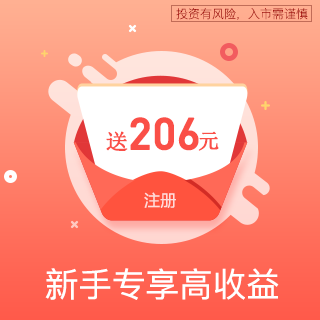
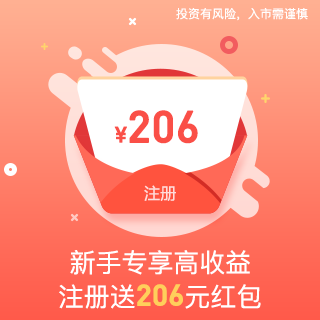
临时文件

diff --git a/files/index/data.js b/files/index/data.js
@@ -1,7 +1,7 @@
 $axure.loadCurrentPage(
 (function() {
     var _ = function() { var r={},a=arguments; for(var i=0; i<a.length; i+=2) r[a[i]]=a[i+1]; return r; }
-    var _creator = function() { return _(b,c,d,e,f,g,h,g,i,[j],k,_(l,m,n,o,p,q,r,_(),s,_(t,u,v,w,x,_(y,z,A,B),C,null,D,w,E,w,F,G,H,null,I,J,K,L,M,N,O,J),P,_(),Q,_(),R,_(S,[_(T,U,V,W,X,Y,n,Z,ba,Z,bb,bc,s,_(bd,_(be,bf,bg,bh),t,bi,bj,_(bk,bl,bm,bn),bo,bp),P,_(),bq,_(),S,[_(T,br,V,W,X,null,bs,bc,n,bt,ba,bu,bb,bc,s,_(bd,_(be,bf,bg,bh),t,bi,bj,_(bk,bl,bm,bn),bo,bp),P,_(),bq,_())],bv,g),_(T,bw,V,W,X,bx,n,Z,ba,Z,bb,bc,s,_(bd,_(be,by,bg,bz),t,bA,bj,_(bk,bB,bm,bC)),P,_(),bq,_(),S,[_(T,bD,V,W,X,null,bs,bc,n,bt,ba,bu,bb,bc,s,_(bd,_(be,by,bg,bz),t,bA,bj,_(bk,bB,bm,bC)),P,_(),bq,_())],bE,_(bF,bG),bv,g),_(T,bH,V,W,X,Y,n,Z,ba,Z,bb,bc,s,_(bI,bJ,bd,_(be,bK,bg,bL),t,bM,bj,_(bk,bN,bm,bO)),P,_(),bq,_(),S,[_(T,bP,V,W,X,null,bs,bc,n,bt,ba,bu,bb,bc,s,_(bI,bJ,bd,_(be,bK,bg,bL),t,bM,bj,_(bk,bN,bm,bO)),P,_(),bq,_())],bv,g),_(T,bQ,V,W,X,Y,n,Z,ba,Z,bb,bc,s,_(bI,bJ,bd,_(be,bR,bg,bS),t,bT,bj,_(bk,bU,bm,bV)),P,_(),bq,_(),S,[_(T,bW,V,W,X,null,bs,bc,n,bt,ba,bu,bb,bc,s,_(bI,bJ,bd,_(be,bR,bg,bS),t,bT,bj,_(bk,bU,bm,bV)),P,_(),bq,_())],bv,g),_(T,bX,V,W,X,Y,n,Z,ba,Z,bb,bc,s,_(bI,bJ,bd,_(be,bY,bg,bZ),t,ca,bj,_(bk,cb,bm,cc)),P,_(),bq,_(),S,[_(T,cd,V,W,X,null,bs,bc,n,bt,ba,bu,bb,bc,s,_(bI,bJ,bd,_(be,bY,bg,bZ),t,ca,bj,_(bk,cb,bm,cc)),P,_(),bq,_())],bv,g),_(T,ce,V,W,X,cf,n,cg,ba,cg,bb,bc,s,_(t,ch,bd,_(be,ci,bg,ci),bj,_(bk,cj,bm,ck)),P,_(),bq,_(),S,[_(T,cl,V,W,X,null,bs,bc,n,bt,ba,bu,bb,bc,s,_(t,ch,bd,_(be,ci,bg,ci),bj,_(bk,cj,bm,ck)),P,_(),bq,_())],bE,_(bF,cm)),_(T,cn,V,W,X,cf,n,cg,ba,cg,bb,bc,s,_(t,ch,bd,_(be,ci,bg,ci),bj,_(bk,ci,bm,ck)),P,_(),bq,_(),S,[_(T,co,V,W,X,null,bs,bc,n,bt,ba,bu,bb,bc,s,_(t,ch,bd,_(be,ci,bg,ci),bj,_(bk,ci,bm,ck)),P,_(),bq,_())],bE,_(bF,cp)),_(T,cq,V,W,X,cf,n,cg,ba,cg,bb,bc,s,_(t,ch,bd,_(be,ci,bg,ci)),P,_(),bq,_(),S,[_(T,cr,V,W,X,null,bs,bc,n,bt,ba,bu,bb,bc,s,_(t,ch,bd,_(be,ci,bg,ci)),P,_(),bq,_())],bE,_(bF,cs))])),ct,_(),cu,_(cv,_(cw,cx),cy,_(cw,cz),cA,_(cw,cB),cC,_(cw,cD),cE,_(cw,cF),cG,_(cw,cH),cI,_(cw,cJ),cK,_(cw,cL),cM,_(cw,cN),cO,_(cw,cP),cQ,_(cw,cR),cS,_(cw,cT),cU,_(cw,cV),cW,_(cw,cX),cY,_(cw,cZ),da,_(cw,db)));}; 
-var b="url",c="index.html",d="generationDate",e=new Date(1525924745442.2),f="isCanvasEnabled",g=false,h="isAdaptiveEnabled",i="variables",j="OnLoadVariable",k="page",l="packageId",m="deb67c369b2341ee82ba4cf0ecd7fbb5",n="type",o="Axure:Page",p="name",q="index",r="notes",s="style",t="baseStyle",u="627587b6038d43cca051c114ac41ad32",v="pageAlignment",w="near",x="fill",y="fillType",z="solid",A="color",B=0xFFFFFFFF,C="image",D="imageHorizontalAlignment",E="imageVerticalAlignment",F="imageRepeat",G="auto",H="favicon",I="sketchFactor",J="0",K="colorStyle",L="appliedColor",M="fontName",N="Applied Font",O="borderWidth",P="adaptiveStyles",Q="interactionMap",R="diagram",S="objects",T="id",U="0b8754adeb4a4aaa83d6da3865ff0277",V="label",W="",X="friendlyType",Y="矩形",Z="vectorShape",ba="styleType",bb="visible",bc=true,bd="size",be="width",bf=620,bg="height",bh=230,bi="4b7bfc596114427989e10bb0b557d0ce",bj="location",bk="x",bl=4,bm="y",bn=117,bo="cornerRadius",bp="5",bq="imageOverrides",br="b1bedeb228bb41cc8f175700a86edae0",bs="isContained",bt="richTextPanel",bu="paragraph",bv="generateCompound",bw="a676048dda1d4d1f9574b7d8e251f3ed",bx="占位符",by=110,bz=36,bA="c50e74f669b24b37bd9c18da7326bccd",bB=14,bC=124,bD="8a3af233c432469ca5945ee232ef5e78",bE="images",bF="normal~",bG="images/index/u2.png",bH="7c35a8ef5cb344e9a570aed8e888564c",bI="fontWeight",bJ="700",bK=129,bL=37,bM="1111111151944dfba49f67fd55eb1f88",bN=150,bO=193,bP="142bfecdf82f4384af4e9f593e33b977",bQ="6b2e15ea56e942aab7c5783709a76645",bR=75,bS=22,bT="8c7a4c5ad69a4369a5f7788171ac0b32",bU=80,bV=280,bW="863a483d3abe418e99663950b996a04b",bX="eef110388c9d4ab3bebf94dac1e95fd5",bY=97,bZ=29,ca="b3a15c9ddde04520be40f94c8168891e",cb=323,cc=197,cd="6f0e768e4a2841b1b0b01a6ce3e5f745",ce="0630e2e8648b4356a66f600ac58282b7",cf="图片",cg="imageBox",ch="75a91ee5b9d042cfa01b8d565fe289c0",ci=107,cj=213,ck=0,cl="c4ad9f79a119493cbdceccbd2753380f",cm="images/index/u10.png",cn="80545591825c4da5a630c237f8805fc6",co="3dc771c1add442399ada14b15b3afb82",cp="images/index/u12.png",cq="1c0ea4004a384059a5f27720e7180bc3",cr="e78822b146884d10a7222a22e2df685f",cs="images/index/u14.png",ct="masters",cu="objectPaths",cv="0b8754adeb4a4aaa83d6da3865ff0277",cw="scriptId",cx="u0",cy="b1bedeb228bb41cc8f175700a86edae0",cz="u1",cA="a676048dda1d4d1f9574b7d8e251f3ed",cB="u2",cC="8a3af233c432469ca5945ee232ef5e78",cD="u3",cE="7c35a8ef5cb344e9a570aed8e888564c",cF="u4",cG="142bfecdf82f4384af4e9f593e33b977",cH="u5",cI="6b2e15ea56e942aab7c5783709a76645",cJ="u6",cK="863a483d3abe418e99663950b996a04b",cL="u7",cM="eef110388c9d4ab3bebf94dac1e95fd5",cN="u8",cO="6f0e768e4a2841b1b0b01a6ce3e5f745",cP="u9",cQ="0630e2e8648b4356a66f600ac58282b7",cR="u10",cS="c4ad9f79a119493cbdceccbd2753380f",cT="u11",cU="80545591825c4da5a630c237f8805fc6",cV="u12",cW="3dc771c1add442399ada14b15b3afb82",cX="u13",cY="1c0ea4004a384059a5f27720e7180bc3",cZ="u14",da="e78822b146884d10a7222a22e2df685f",db="u15";
+    var _creator = function() { return _(b,c,d,e,f,g,h,g,i,[j],k,_(l,m,n,o,p,q,r,_(),s,_(t,u,v,w,x,_(y,z,A,B),C,null,D,w,E,w,F,G,H,null,I,J,K,L,M,N,O,J),P,_(),Q,_(),R,_(S,[_(T,U,V,W,X,Y,n,Z,ba,Z,bb,bc,s,_(t,bd,be,_(bf,bg,bh,bg),bi,_(bj,bk,bl,bm)),P,_(),bn,_(),S,[_(T,bo,V,W,X,null,bp,bc,n,bq,ba,br,bb,bc,s,_(t,bd,be,_(bf,bg,bh,bg),bi,_(bj,bk,bl,bm)),P,_(),bn,_())],bs,_(bt,bu)),_(T,bv,V,W,X,Y,n,Z,ba,Z,bb,bc,s,_(t,bd,be,_(bf,bg,bh,bg),bi,_(bj,bg,bl,bm)),P,_(),bn,_(),S,[_(T,bw,V,W,X,null,bp,bc,n,bq,ba,br,bb,bc,s,_(t,bd,be,_(bf,bg,bh,bg),bi,_(bj,bg,bl,bm)),P,_(),bn,_())],bs,_(bt,bx)),_(T,by,V,W,X,Y,n,Z,ba,Z,bb,bc,s,_(t,bd,be,_(bf,bg,bh,bg)),P,_(),bn,_(),S,[_(T,bz,V,W,X,null,bp,bc,n,bq,ba,br,bb,bc,s,_(t,bd,be,_(bf,bg,bh,bg)),P,_(),bn,_())],bs,_(bt,bA))])),bB,_(),bC,_(bD,_(bE,bF),bG,_(bE,bH),bI,_(bE,bJ),bK,_(bE,bL),bM,_(bE,bN),bO,_(bE,bP)));}; 
+var b="url",c="index.html",d="generationDate",e=new Date(1525924857125.2),f="isCanvasEnabled",g=false,h="isAdaptiveEnabled",i="variables",j="OnLoadVariable",k="page",l="packageId",m="deb67c369b2341ee82ba4cf0ecd7fbb5",n="type",o="Axure:Page",p="name",q="index",r="notes",s="style",t="baseStyle",u="627587b6038d43cca051c114ac41ad32",v="pageAlignment",w="near",x="fill",y="fillType",z="solid",A="color",B=0xFFFFFFFF,C="image",D="imageHorizontalAlignment",E="imageVerticalAlignment",F="imageRepeat",G="auto",H="favicon",I="sketchFactor",J="0",K="colorStyle",L="appliedColor",M="fontName",N="Applied Font",O="borderWidth",P="adaptiveStyles",Q="interactionMap",R="diagram",S="objects",T="id",U="0630e2e8648b4356a66f600ac58282b7",V="label",W="",X="friendlyType",Y="图片",Z="imageBox",ba="styleType",bb="visible",bc=true,bd="75a91ee5b9d042cfa01b8d565fe289c0",be="size",bf="width",bg=107,bh="height",bi="location",bj="x",bk=213,bl="y",bm=0,bn="imageOverrides",bo="c4ad9f79a119493cbdceccbd2753380f",bp="isContained",bq="richTextPanel",br="paragraph",bs="images",bt="normal~",bu="images/index/u0.png",bv="80545591825c4da5a630c237f8805fc6",bw="3dc771c1add442399ada14b15b3afb82",bx="images/index/u2.png",by="1c0ea4004a384059a5f27720e7180bc3",bz="e78822b146884d10a7222a22e2df685f",bA="images/index/u4.png",bB="masters",bC="objectPaths",bD="0630e2e8648b4356a66f600ac58282b7",bE="scriptId",bF="u0",bG="c4ad9f79a119493cbdceccbd2753380f",bH="u1",bI="80545591825c4da5a630c237f8805fc6",bJ="u2",bK="3dc771c1add442399ada14b15b3afb82",bL="u3",bM="1c0ea4004a384059a5f27720e7180bc3",bN="u4",bO="e78822b146884d10a7222a22e2df685f",bP="u5";
 return _creator();
 })());

diff --git a/files/index/styles.css b/files/index/styles.css
@@ -3,7 +3,7 @@
   background-image:none;
   position:static;
   left:auto;
-  width:624px;
+  width:320px;
   margin-left:0;
   margin-right:0;
   text-align:left;
@@ -12,35 +12,25 @@
   position:absolute;
   z-index:0;
 }
-#u0_div {
+#u0_img {
   position:absolute;
   left:0px;
   top:0px;
-  width:620px;
-  height:230px;
-  background:inherit;
-  background-color:rgba(255, 255, 255, 1);
-  box-sizing:border-box;
-  border-width:1px;
-  border-style:solid;
-  border-color:rgba(121, 121, 121, 1);
-  border-radius:5px;
-  -moz-box-shadow:none;
-  -webkit-box-shadow:none;
-  box-shadow:none;
+  width:107px;
+  height:107px;
 }
 #u0 {
   position:absolute;
-  left:4px;
-  top:117px;
-  width:620px;
-  height:230px;
+  left:213px;
+  top:0px;
+  width:107px;
+  height:107px;
 }
 #u1 {
   position:absolute;
   left:2px;
-  top:107px;
-  width:616px;
+  top:46px;
+  width:103px;
   visibility:hidden;
   word-wrap:break-word;
 }
@@ -48,163 +38,17 @@
   position:absolute;
   left:0px;
   top:0px;
-  width:111px;
-  height:37px;
+  width:107px;
+  height:107px;
 }
 #u2 {
-  position:absolute;
-  left:14px;
-  top:124px;
-  width:110px;
-  height:36px;
-}
-#u3 {
-  position:absolute;
-  left:2px;
-  top:10px;
-  width:106px;
-  visibility:hidden;
-  word-wrap:break-word;
-}
-#u4_div {
-  position:absolute;
-  left:0px;
-  top:0px;
-  width:129px;
-  height:37px;
-  background:inherit;
-  background-color:rgba(255, 255, 255, 0);
-  border:none;
-  border-radius:0px;
-  -moz-box-shadow:none;
-  -webkit-box-shadow:none;
-  box-shadow:none;
-  font-family:'Arial Negreta', 'Arial Normal', 'Arial';
-  font-weight:700;
-  font-style:normal;
-}
-#u4 {
-  position:absolute;
-  left:150px;
-  top:193px;
-  width:129px;
-  height:37px;
-  font-family:'Arial Negreta', 'Arial Normal', 'Arial';
-  font-weight:700;
-  font-style:normal;
-}
-#u5 {
-  position:absolute;
-  left:0px;
-  top:0px;
-  width:129px;
-  white-space:nowrap;
-}
-#u6_div {
-  position:absolute;
-  left:0px;
-  top:0px;
-  width:75px;
-  height:22px;
-  background:inherit;
-  background-color:rgba(255, 255, 255, 0);
-  border:none;
-  border-radius:0px;
-  -moz-box-shadow:none;
-  -webkit-box-shadow:none;
-  box-shadow:none;
-  font-family:'Arial Negreta', 'Arial Normal', 'Arial';
-  font-weight:700;
-  font-style:normal;
-}
-#u6 {
-  position:absolute;
-  left:80px;
-  top:280px;
-  width:75px;
-  height:22px;
-  font-family:'Arial Negreta', 'Arial Normal', 'Arial';
-  font-weight:700;
-  font-style:normal;
-}
-#u7 {
-  position:absolute;
-  left:0px;
-  top:0px;
-  width:75px;
-  white-space:nowrap;
-}
-#u8_div {
-  position:absolute;
-  left:0px;
-  top:0px;
-  width:97px;
-  height:29px;
-  background:inherit;
-  background-color:rgba(255, 255, 255, 0);
-  border:none;
-  border-radius:0px;
-  -moz-box-shadow:none;
-  -webkit-box-shadow:none;
-  box-shadow:none;
-  font-family:'Arial Negreta', 'Arial Normal', 'Arial';
-  font-weight:700;
-  font-style:normal;
-}
-#u8 {
-  position:absolute;
-  left:323px;
-  top:197px;
-  width:97px;
-  height:29px;
-  font-family:'Arial Negreta', 'Arial Normal', 'Arial';
-  font-weight:700;
-  font-style:normal;
-}
-#u9 {
-  position:absolute;
-  left:0px;
-  top:0px;
-  width:97px;
-  white-space:nowrap;
-}
-#u10_img {
-  position:absolute;
-  left:0px;
-  top:0px;
-  width:107px;
-  height:107px;
-}
-#u10 {
-  position:absolute;
-  left:213px;
-  top:0px;
-  width:107px;
-  height:107px;
-}
-#u11 {
-  position:absolute;
-  left:2px;
-  top:46px;
-  width:103px;
-  visibility:hidden;
-  word-wrap:break-word;
-}
-#u12_img {
-  position:absolute;
-  left:0px;
-  top:0px;
-  width:107px;
-  height:107px;
-}
-#u12 {
   position:absolute;
   left:107px;
   top:0px;
   width:107px;
   height:107px;
 }
-#u13 {
+#u3 {
   position:absolute;
   left:2px;
   top:46px;
@@ -212,21 +56,21 @@
   visibility:hidden;
   word-wrap:break-word;
 }
-#u14_img {
+#u4_img {
   position:absolute;
   left:0px;
   top:0px;
   width:107px;
   height:107px;
 }
-#u14 {
+#u4 {
   position:absolute;
   left:0px;
   top:0px;
   width:107px;
   height:107px;
 }
-#u15 {
+#u5 {
   position:absolute;
   left:2px;
   top:46px;

diff --git a/index.html b/index.html
@@ -52,17 +52,17 @@
   <body>
     <div id="base" class="">
 
-      <!-- Unnamed (矩形) -->
-      <div id="u0" class="ax_default box_1">
-        <div id="u0_div" class=""></div>
+      <!-- Unnamed (图片) -->
+      <div id="u0" class="ax_default _图片">
+        <img id="u0_img" class="img " src="images/index/u0.png"/>
         <!-- Unnamed () -->
         <div id="u1" class="text" style="display:none; visibility: hidden">
           <p><span></span></p>
         </div>
       </div>
 
-      <!-- Unnamed (占位符) -->
-      <div id="u2" class="ax_default placeholder">
+      <!-- Unnamed (图片) -->
+      <div id="u2" class="ax_default _图片">
         <img id="u2_img" class="img " src="images/index/u2.png"/>
         <!-- Unnamed () -->
         <div id="u3" class="text" style="display:none; visibility: hidden">
@@ -70,56 +70,11 @@
         </div>
       </div>
 
-      <!-- Unnamed (矩形) -->
-      <div id="u4" class="ax_default _一级标题">
-        <div id="u4_div" class=""></div>
-        <!-- Unnamed () -->
-        <div id="u5" class="text">
-          <p><span>一级标题&nbsp; </span></p>
-        </div>
-      </div>
-
-      <!-- Unnamed (矩形) -->
-      <div id="u6" class="ax_default _三级标题">
-        <div id="u6_div" class=""></div>
-        <!-- Unnamed () -->
-        <div id="u7" class="text">
-          <p><span>三级标题</span></p>
-        </div>
-      </div>
-
-      <!-- Unnamed (矩形) -->
-      <div id="u8" class="ax_default _二级标题">
-        <div id="u8_div" class=""></div>
-        <!-- Unnamed () -->
-        <div id="u9" class="text">
-          <p><span>二级标题</span></p>
-        </div>
-      </div>
-
       <!-- Unnamed (图片) -->
-      <div id="u10" class="ax_default _图片">
-        <img id="u10_img" class="img " src="images/index/u10.png"/>
+      <div id="u4" class="ax_default _图片">
+        <img id="u4_img" class="img " src="images/index/u4.png"/>
         <!-- Unnamed () -->
-        <div id="u11" class="text" style="display:none; visibility: hidden">
-          <p><span></span></p>
-        </div>
-      </div>
-
-      <!-- Unnamed (图片) -->
-      <div id="u12" class="ax_default _图片">
-        <img id="u12_img" class="img " src="images/index/u12.png"/>
-        <!-- Unnamed () -->
-        <div id="u13" class="text" style="display:none; visibility: hidden">
-          <p><span></span></p>
-        </div>
-      </div>
-
-      <!-- Unnamed (图片) -->
-      <div id="u14" class="ax_default _图片">
-        <img id="u14_img" class="img " src="images/index/u14.png"/>
-        <!-- Unnamed () -->
-        <div id="u15" class="text" style="display:none; visibility: hidden">
+        <div id="u5" class="text" style="display:none; visibility: hidden">
           <p><span></span></p>
         </div>
       </div>
